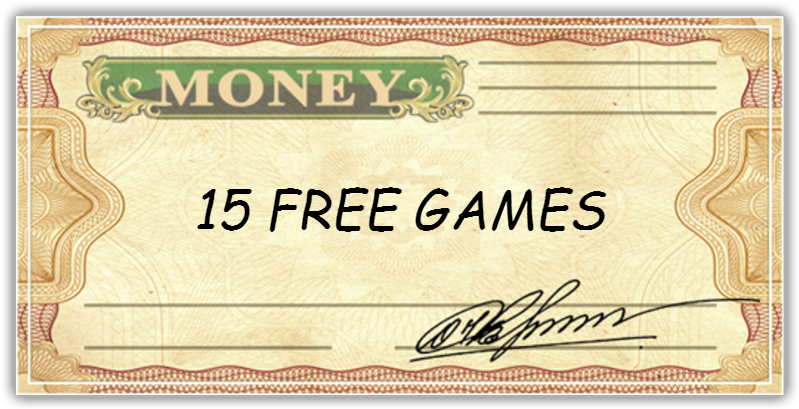
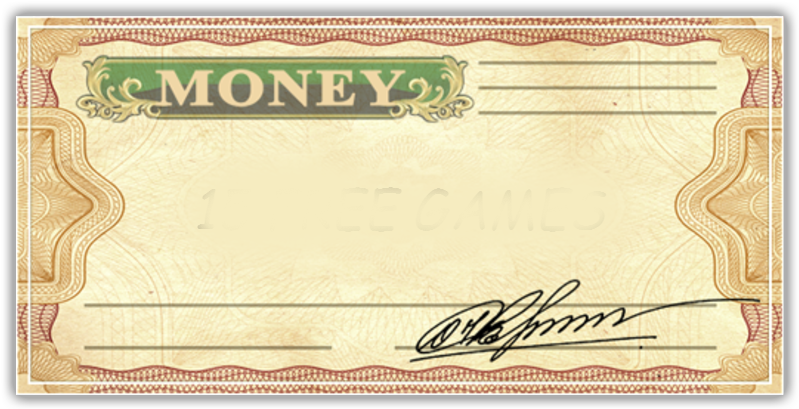
money done

Changed region(s): [[0.2403, 0.4401, 0.781, 0.5868]]

diff --git a/resources/assets/sass/divslot/games/money.scss b/resources/assets/sass/divslot/games/money.scss
@@ -3,8 +3,12 @@
 
 .alert .content {
     background: url('../img/games/money/images/freeSpinBg.png');
-    width: 541px;
-    height: 497px;
+    width: 804px;
+    height: 411px;
+    background-size: 100% 100%;
+    font-size: 30px;
+    font-weight: 900;
+    text-transform: uppercase;
 }
 .main {
     background: url('../img/games/money/game_bg.png') center center;
@@ -33,5 +37,10 @@
     background: url('../img/games/money/header.png');
 }
 .gamble {
-    background: url('../img/games/money/gamble/gamble_bg.png');
+    background-image: url('../img/games/money/gamble/gamble_bg.png');
+    background-size: 100% 100%;
+    top: 155px;
+    width: 1402px;
+    border-radius: 20px;
+    height: 675px;
 }

diff --git a/public/js/money_settings.js b/public/js/money_settings.js
@@ -1,6 +1,6 @@
 var settings = {
-    "symbolSize": 233,
-    "spaceBetweenReels": 35,
+    "symbolSize": 220,
+    "spaceBetweenReels": 30,
 
     "numOfRows": 3,
     "numOfReels": 5,
@@ -30,9 +30,9 @@ var settings = {
         {"image": "1.png"},
         {"image": "2.png"},
         {"image": "3.png"},
-        {"image": "4.png", "animation": "4Anim.png"},
+        {"image": "4.png"},
         {"image": "5.png"},
-        {"image": "6.png"},
+        {"image": "6.png", "isScatter": true},
         {"image": "7.png"},
         {"image": "8.png"},
         {"image": "9.png"},

diff --git a/resources/assets/sass/divslot/games/nautilus.scss b/resources/assets/sass/divslot/games/nautilus.scss
@@ -26,16 +26,12 @@
 .header {
     background-image: url('../img/games/nautilus/header.png');
 }
-.alert .content {
-    background: url("../img/games/nautilus/freeSpinBg.png");
-    width: 1184px;
-    height: 626px;
-}
 .gamble {
     background: url('../img/games/nautilus/gamble/gamble_bg.png');
 }
 
 .alert .content {
+    background: url("../img/games/nautilus/freeSpinBg.png");
     width: 1015px;
     height: 504px;
     background-size: 100% 100%;

diff --git a/app/Game/Games/Money.php b/app/Game/Games/Money.php
@@ -6,8 +6,8 @@ use App\Game\Games\Game;
 
 class Money extends Game {
     public static $reelsAmount = 5;
-    public static $scatter = 6;
-    public static $joker = 10;
+    public static $scatter = 5;
+    public static $joker = 9;
     public static $freeSpinsAmount = 15;
     public static $symbolsAmount = 13;
     public static $paytable = [
@@ -35,7 +35,7 @@ class Money extends Game {
     }
 
     public function bonusSpin() {
-        return $this->game->bonusSpin("FreeSpins");
+        return $this->game->bonusSpin("FreeSpinsMultiplier");
     }
 
     public function areBonusSpins() {
